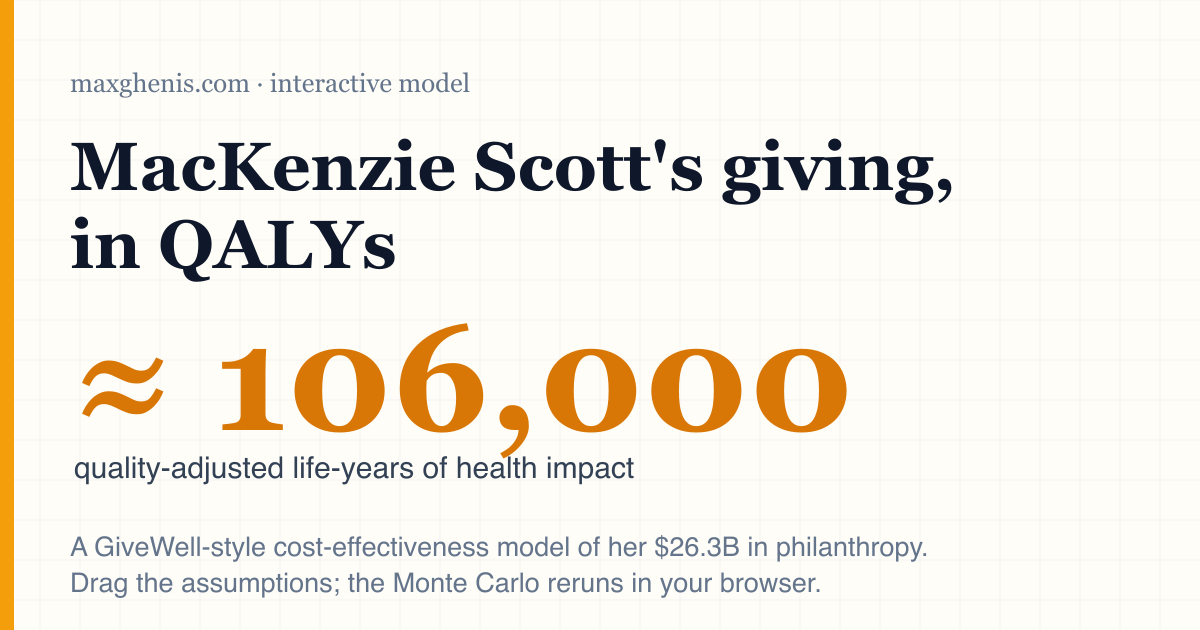
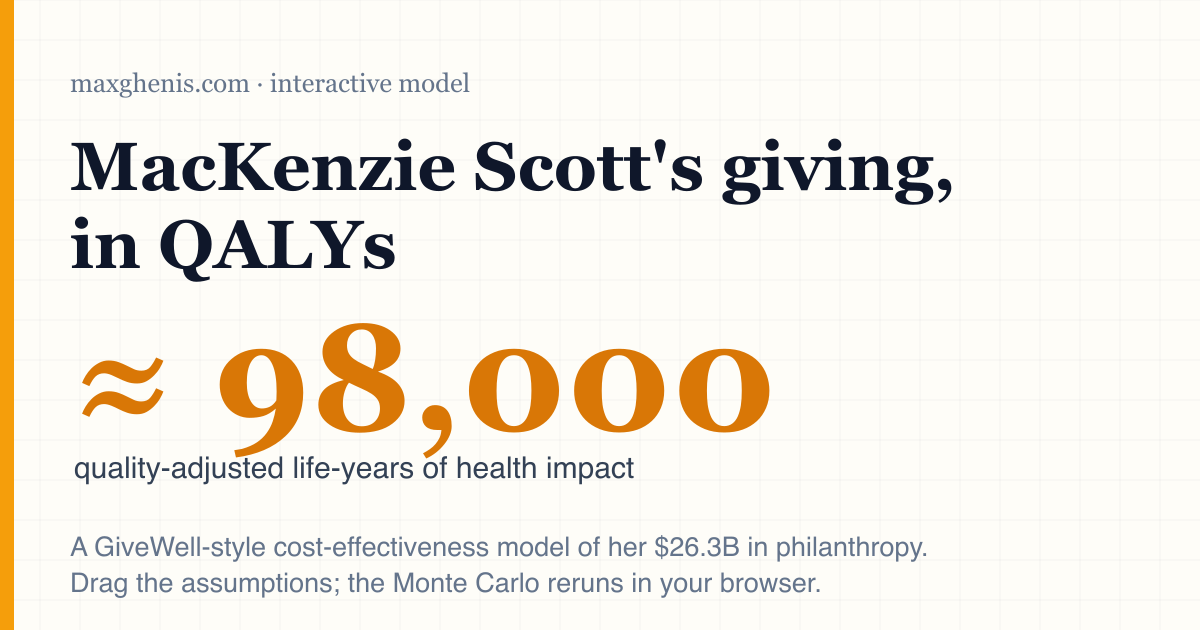
Fix MacKenzie Scott QALY assumptions

Changed region(s): [[0.185, 0.5127, 0.7092, 0.7238]]

diff --git a/src/lib/mackenzie-qaly.test.ts b/src/lib/mackenzie-qaly.test.ts
@@ -1,5 +1,6 @@
 import { describe, expect, it } from "vitest";
 import {
+  PARAMS,
   RNG,
   discountedQale,
   driverSensitivity,
@@ -13,11 +14,11 @@ import {
   summarize,
 } from "./mackenzie-qaly";
 
-// Reference values from the Python package (msqaly, n=100k seed=0):
-//   median 106,135 · mean 113,510 · p05 59,547 · p95 191,470
-//   blended $247,796/QALY · benefit-cost 2.46 · frontier multiple 1955
-// The TS port uses a different RNG, so we assert distributional agreement
-// (generous tolerances), not bit-parity.
+// Reference values from the browser model (n=100k seed=0):
+//   median 97,828 · mean 105,169 · p05 54,084 · p95 179,822
+//   blended $268,840/QALY · benefit-cost 2.27 · frontier multiple 1163
+// Monte Carlo output is RNG-sensitive, so we assert distributional agreement
+// with generous tolerances, not bit-parity.
 
 describe("distribution samplers", () => {
   it("lognormal_ci recovers its 5th/95th percentiles", () => {
@@ -89,27 +90,27 @@ describe("model end-to-end", () => {
   const r = runModel({ n: 40000, seed: 0 });
   const s = summarize(r);
 
-  it("matches the Python reference within Monte Carlo tolerance", () => {
-    expect(s.median).toBeGreaterThan(92000);
-    expect(s.median).toBeLessThan(122000);
-    expect(s.mean).toBeGreaterThan(98000);
-    expect(s.mean).toBeLessThan(132000);
-    expect(s.p05).toBeGreaterThan(48000);
-    expect(s.p95).toBeLessThan(230000);
+  it("matches the checked reference range within Monte Carlo tolerance", () => {
+    expect(s.median).toBeGreaterThan(84000);
+    expect(s.median).toBeLessThan(112000);
+    expect(s.mean).toBeGreaterThan(92000);
+    expect(s.mean).toBeLessThan(120000);
+    expect(s.p05).toBeGreaterThan(43000);
+    expect(s.p95).toBeLessThan(215000);
   });
 
   it("blended cost-per-QALY and benefit-cost land near the reference", () => {
-    expect(s.blendedMedian).toBeGreaterThan(200000);
-    expect(s.blendedMedian).toBeLessThan(300000);
-    expect(s.bcMedian).toBeGreaterThan(2.0);
-    expect(s.bcMedian).toBeLessThan(3.0);
+    expect(s.blendedMedian).toBeGreaterThan(230000);
+    expect(s.blendedMedian).toBeLessThan(330000);
+    expect(s.bcMedian).toBeGreaterThan(1.8);
+    expect(s.bcMedian).toBeLessThan(2.8);
   });
 
-  it("frontier is handicapped but still ~1000x+ better per dollar", () => {
-    expect(s.frontierMultiple).toBeGreaterThan(1200);
-    expect(s.frontierMultiple).toBeLessThan(2800);
+  it("frontier is handicapped but still hundreds of times better per dollar", () => {
+    expect(s.frontierMultiple).toBeGreaterThan(700);
+    expect(s.frontierMultiple).toBeLessThan(1700);
     // handicapped: below the raw giving / frontier_cpq
-    const rawFrontier = r.giving / impliedMedian({ dist: "loguniform", low: 50, high: 150 });
+    const rawFrontier = r.giving / impliedMedian(PARAMS.conversions.frontier_cost_per_qaly_usd);
     expect(s.frontierMedian).toBeLessThan(rawFrontier);
   });
 
@@ -133,10 +134,11 @@ describe("model end-to-end", () => {
     }
   });
 
-  it("health interventions dominate the QALY contribution", () => {
-    const top3 = s.perArchetype.slice(0, 3).map((a) => a.label);
-    expect(top3.some((l) => l.includes("mental"))).toBe(true);
-    expect(top3.some((l) => l.includes("insurance"))).toBe(true);
+  it("health-effect archetypes remain among the largest QALY contributors", () => {
+    const top5 = s.perArchetype.slice(0, 5).map((a) => a.label);
+    expect(top5.some((l) => l.includes("mental"))).toBe(true);
+    expect(top5.some((l) => l.includes("insurance"))).toBe(true);
+    expect(top5.some((l) => l.includes("community health centers"))).toBe(true);
   });
 
   it("equity & justice contributes little health despite a large allocation", () => {
@@ -151,7 +153,7 @@ describe("evidence-stance slider", () => {
     const skeptical = summarize(runModel({ n: 30000, seed: 0, credulity: 0 }));
     const credulous = summarize(runModel({ n: 30000, seed: 0, credulity: 1 }));
     expect(credulous.median).toBeGreaterThan(1.6 * skeptical.median);
-    expect(credulous.median).toBeGreaterThan(180000); // approaches the ~230k "trust everything" figure
+    expect(credulous.median).toBeGreaterThan(200000); // approaches the ~238k "trust everything" figure
   });
 });
 

diff --git a/src/lib/mackenzie-qaly.ts b/src/lib/mackenzie-qaly.ts
@@ -3,12 +3,11 @@
  * model (https://github.com/MaxGhenis/mackenzie-scott-qaly).
  *
  * It estimates the health impact, in quality-adjusted life-years (QALYs), of
- * MacKenzie Scott's lifetime philanthropy. The Python package is the source of
- * truth; the parameters here are imported verbatim from its exported
- * `params.json` (generated by `msqaly-export-params`). The math mirrors
- * `model.py` / `distributions.py` exactly; only the RNG differs (a seeded
- * mulberry32 here vs numpy's PCG64), so results match in distribution — not
- * bit-for-bit — which is all a Monte Carlo estimate claims anyway.
+ * MacKenzie Scott's lifetime philanthropy. The browser implementation is kept
+ * in distributional parity with the Python package and reads the exported
+ * parameter JSON. The RNG differs (a seeded mulberry32 here vs numpy's PCG64),
+ * so results match in distribution — not bit-for-bit — which is all a Monte
+ * Carlo estimate claims anyway.
  *
  * Everything runs in the browser; there is no backend.
  */
@@ -50,8 +49,7 @@ export interface Params {
   conversions: {
     qaly_per_death_averted: { remaining_life_expectancy: DistSpec; utility_weight: DistSpec };
     vsly_usd: DistSpec;
-    frontier_cost_per_daly_usd: DistSpec;
-    daly_to_qaly_factor: number;
+    frontier_cost_per_qaly_usd: DistSpec;
   };
   realization_factor: { dist: "triangular"; low: number; mode: number; high: number };
   evidence_tiers: Record<string, { mean: number; concentration: number; design: string }>;
@@ -282,8 +280,7 @@ export function runModel(overrides: Overrides = {}): ModelResult {
 
   const qd = p.conversions.qaly_per_death_averted;
   const vslySpec = p.conversions.vsly_usd;
-  const frontierSpec = p.conversions.frontier_cost_per_daly_usd; // per DALY averted
-  const dalyToQaly = p.conversions.daly_to_qaly_factor ?? 1;
+  const frontierSpec = p.conversions.frontier_cost_per_qaly_usd;
   const randomizedTier = p.evidence_tiers.randomized;
 
   // Precompute per-archetype beta(a, b) credibility parameters ONCE — the tier
@@ -348,10 +345,10 @@ export function runModel(overrides: Overrides = {}): ModelResult {
     totalQalys[i] = total;
 
     // Like-for-like frontier handicap (same realization + RCT-grade credibility).
-    // frontierCpq is $ per DALY averted; dalyToQaly converts to QALY-equivalents.
+    // frontierCpq is already a rough $/QALY-equivalent from GiveWell lives-saved estimates.
     const frontierCpq = sampleOne(frontierSpec, rng);
     const frontierCred = clampUnit(rng.beta(frontierA, frontierB));
-    frontierQalys[i] = (giving * real * frontierCred * dalyToQaly) / frontierCpq;
+    frontierQalys[i] = (giving * real * frontierCred) / frontierCpq;
 
     const vsly = sampleOne(vslySpec, rng);
     valueUsd[i] = total * vsly;

diff --git a/scripts/generate-og-mackenzie.ts b/scripts/generate-og-mackenzie.ts
@@ -31,7 +31,7 @@ const svg = `
   <text x="70" y="190" font-family="Georgia, serif" font-weight="700" font-size="68" fill="${ink}">MacKenzie Scott's giving,</text>
   <text x="70" y="268" font-family="Georgia, serif" font-weight="700" font-size="68" fill="${ink}">in QALYs</text>
 
-  <text x="70" y="430" font-family="Georgia, serif" font-weight="700" font-size="150" fill="${amberDark}">≈ 106,000</text>
+  <text x="70" y="430" font-family="Georgia, serif" font-weight="700" font-size="150" fill="${amberDark}">≈ 98,000</text>
   <text x="74" y="478" font-family="Helvetica, Arial, sans-serif" font-size="30" fill="${inkSoft}">quality-adjusted life-years of health impact</text>
 
   <text x="70" y="556" font-family="Helvetica, Arial, sans-serif" font-size="27" fill="${inkMuted}">A GiveWell-style cost-effectiveness model of her $26.3B in philanthropy.</text>

diff --git a/src/components/QalyExplorer.tsx b/src/components/QalyExplorer.tsx
@@ -160,7 +160,7 @@ export default function QalyExplorer() {
             step={0.1}
             onChange={setGivingB}
             display={`$${givingB.toFixed(1)}B`}
-            help="Lifetime total. $26.3B as of end-2025."
+            help="Lifetime total. Default $26.3B; Yield Giving says over $26B in 2,700+ gifts."
           />
           <Slider
             label="Discount rate"